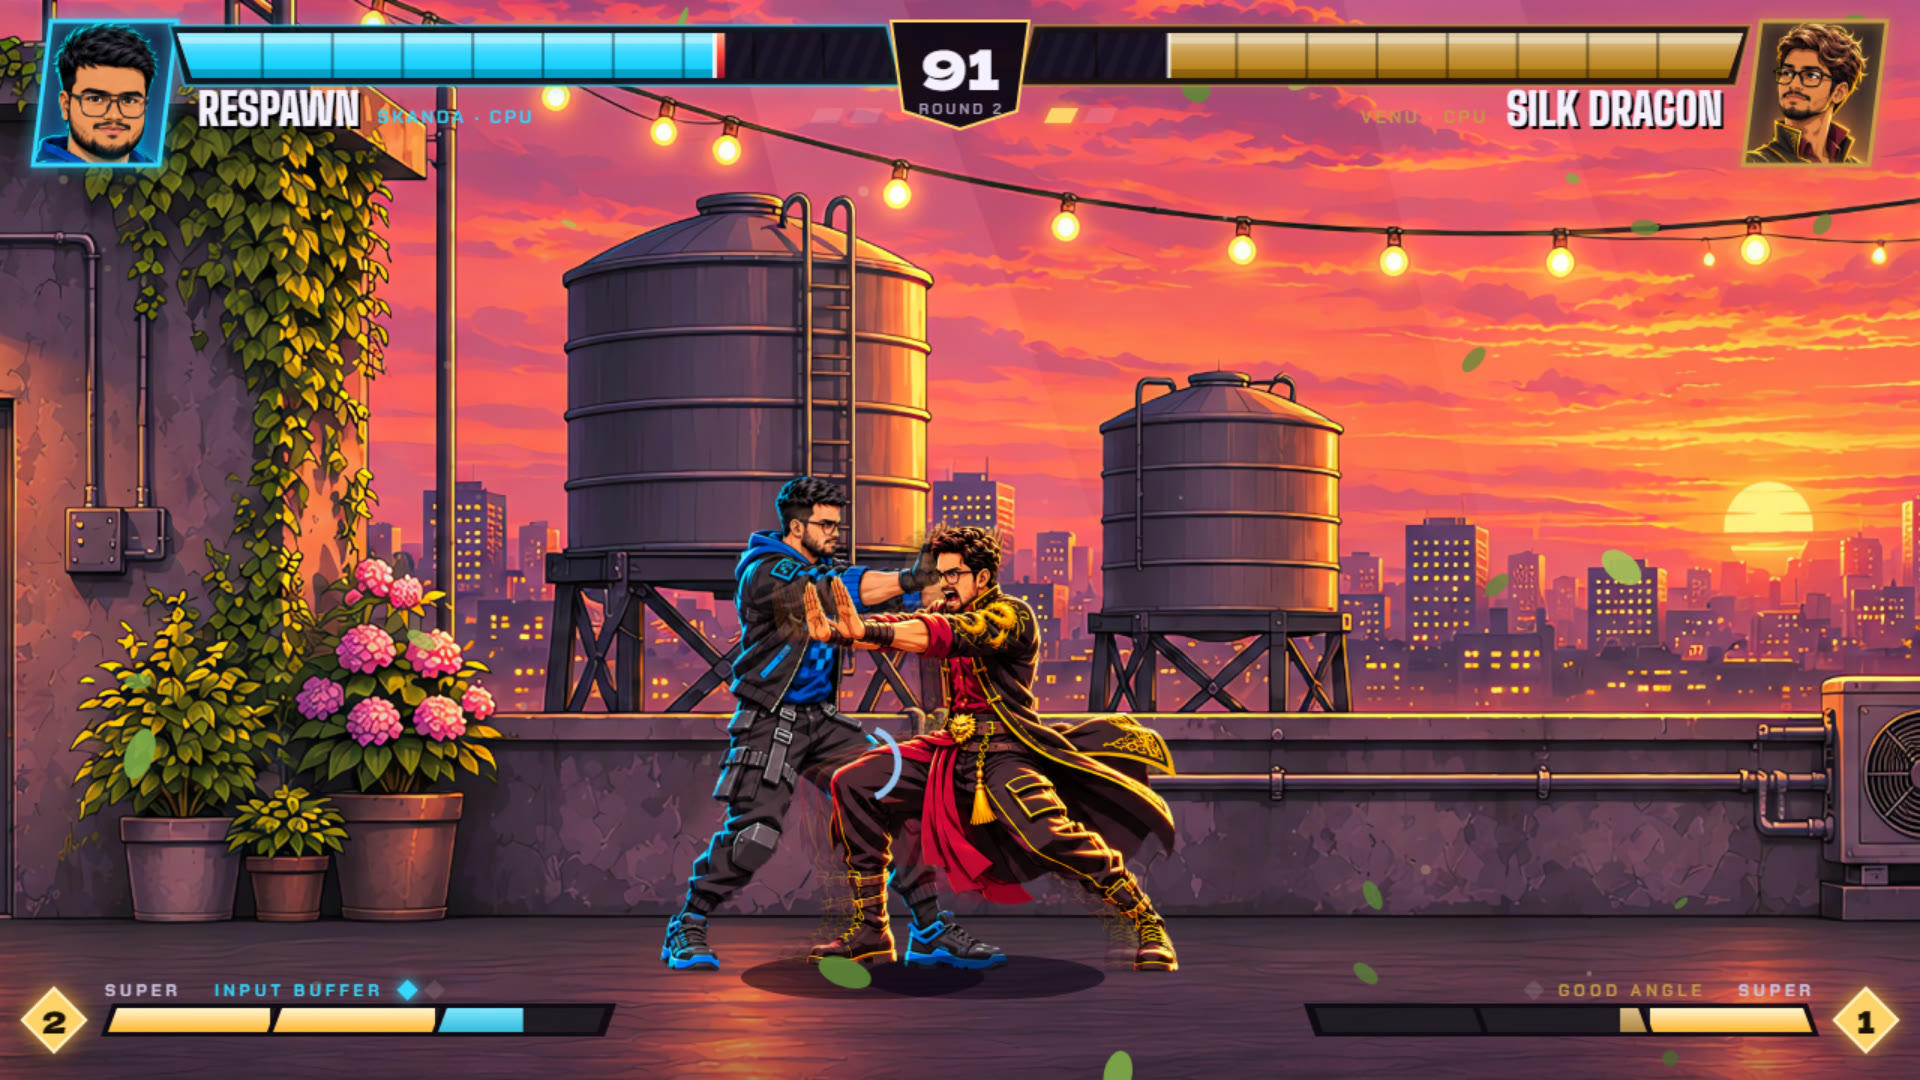
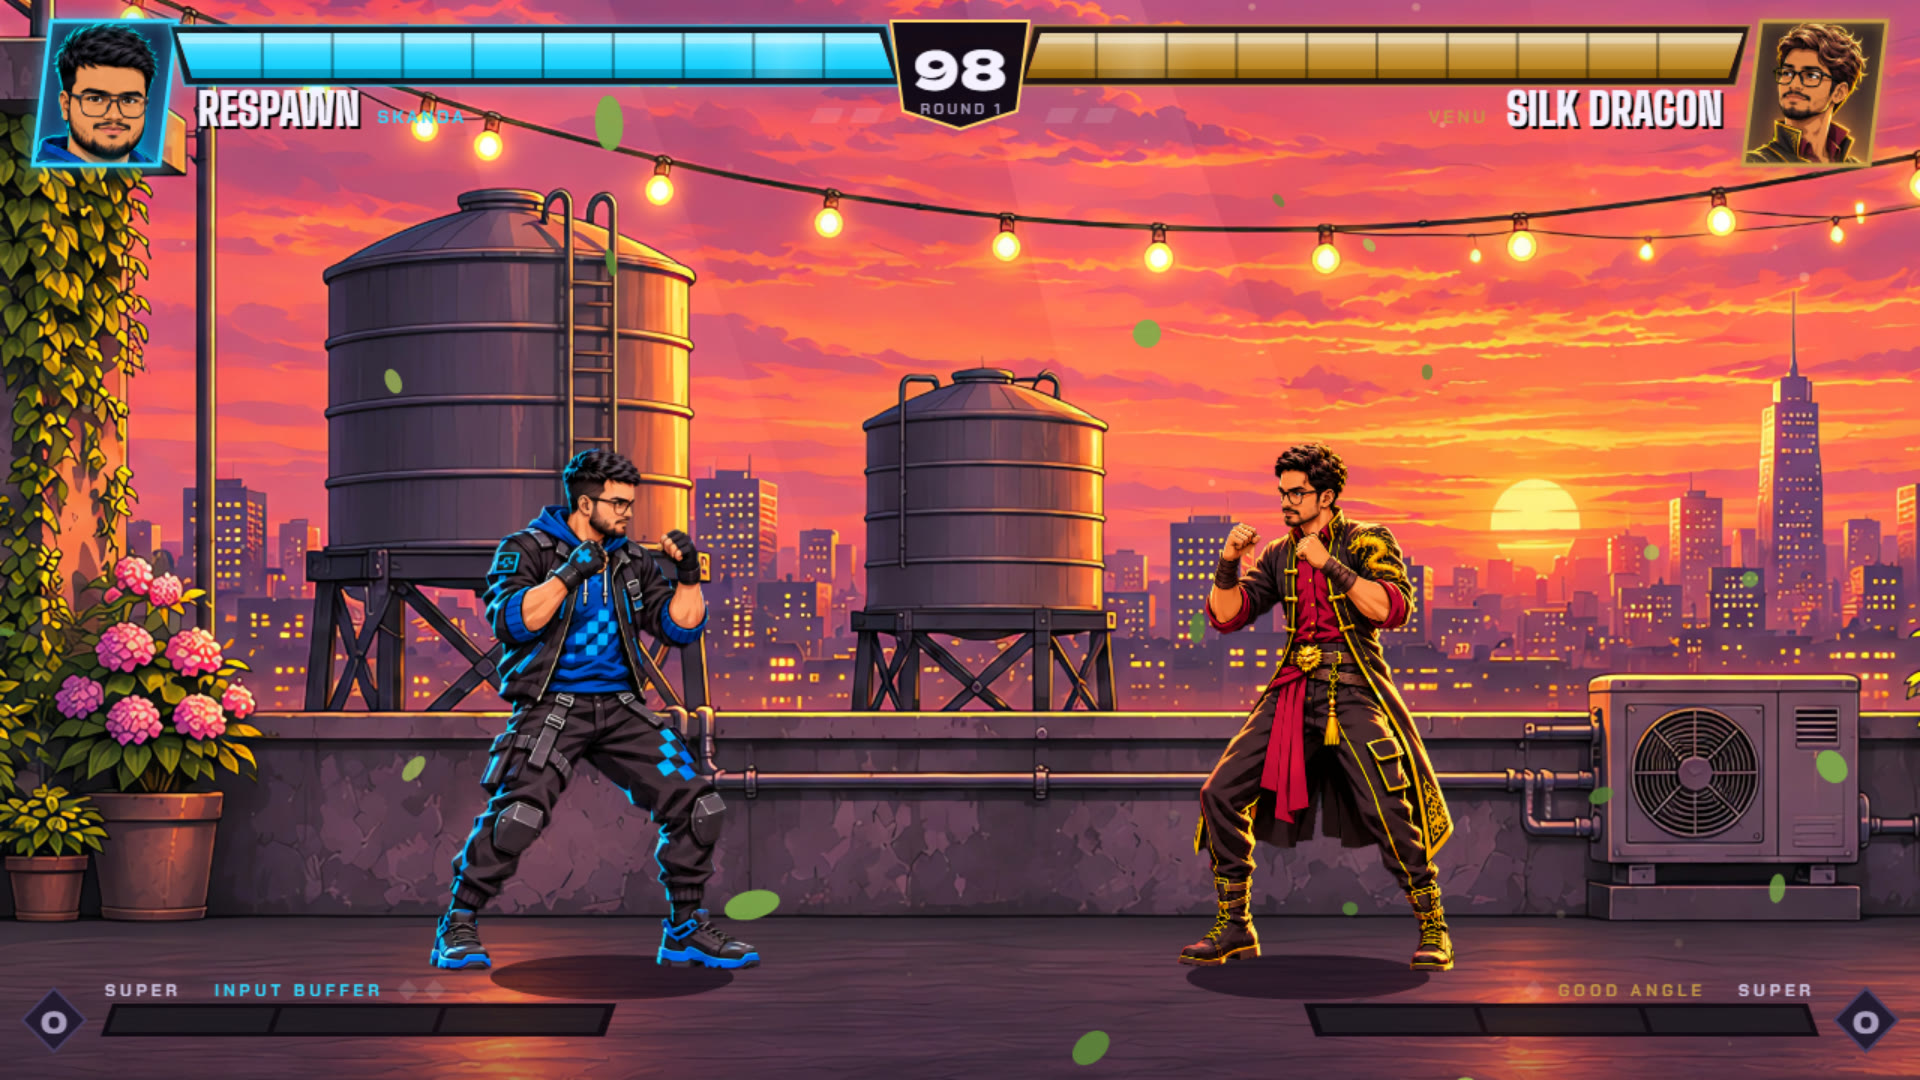
New screenshots: full lineup menu, fighters squaring up

diff --git a/README.md b/README.md
@@ -1,4 +1,4 @@
-# SQUAD WIPE
+# SQUAD WIPE
 
 **7 friends. 1 group chat. Somebody's getting wiped.**
 
@@ -8,25 +8,25 @@ Squad Wipe is a 2D fighting game where every fighter is one of us. Each one has 
   <img src="screenshots/menu.jpg" alt="Squad Wipe main menu with all seven fighters" width="100%">
 </p>
 <p align="center">
-  <img src="screenshots/fight.jpg" alt="RESPAWN and SILK DRAGON trading hits on the Golden Hour rooftop" width="100%">
+  <img src="screenshots/fight.jpg" alt="RESPAWN and SILK DRAGON squaring up on the Golden Hour rooftop" width="100%">
 </p>
 
-## ⬇ Download
+## â¬‡ï¸ Download
 
 **[Get the latest version here](https://github.com/skandasandy24/SQUAD-WIPE-GAME/releases/latest)**. Download `SquadWipe-Setup-x.x.x.exe` from *Assets*.
 
-1. Run the installer. If Windows says **"Windows protected your PC"**, click **More info → Run anyway**. That's only because the game isn't code-signed.
+1. Run the installer. If Windows says **"Windows protected your PC"**, click **More info â†’ Run anyway**. That's only because the game isn't code-signed.
 2. Choose where to install, finish, and open **Squad Wipe** from the desktop or Start menu.
 
-Windows 10/11 · about 300 MB · plays offline (it only goes online to check for updates).
+Windows 10/11 Â· about 300 MB Â· plays offline (it only goes online to check for updates).
 
-## 🔄 Updates
+## ðŸ”„ Updates
 
 You never need to download it again. When a new version is out, the game downloads it in the background and shows **UPDATE READY**:
 - click **RESTART NOW** (or press **F8**, or hold **Select + Start** on a controller), or
 - just keep playing: it installs when you close the game.
 
-## 🥊 The squad
+## ðŸ¥Š The squad
 
 | Fighter | Who | Style | Ultimate |
 |---|---|---|---|
@@ -40,25 +40,25 @@ You never need to download it again. When a new version is out, the game downloa
 
 Every fighter has 5 special moves, a super, an ultimate with its own cinematic, and a home stage.
 
-## 🎮 Modes
+## ðŸŽ® Modes
 
 - **Arcade**: beat the other six in a row. Each fight is harder than the last.
 - **VS CPU**: Easy, Normal or Hard.
 - **VS Friend**: two players on one PC, with a running head-to-head record.
 - **Training**: dummy settings, hitbox view, input display and frame advantage.
 
-## 🕹 Controls
+## ðŸ•¹ï¸ Controls
 
 - **Controllers: fully supported.** Plug in up to two (Xbox, PlayStation or any standard pad). They work in every menu, and pads **rumble** on hits, blocks, throws and K.O.s.
 - **Keyboard:** both players can share one keyboard. Player 2 doesn't need a numpad.
 - Three control styles: **MK** (front/back punch and kick), **Simple** (easy specials) and **Pro**.
-- **F11** fullscreen · **M** mute · full move lists in the game under *How to play* and in the pause menu.
+- **F11** fullscreen Â· **M** mute Â· full move lists in the game under *How to play* and in the pause menu.
 
 | Controller | MK style |
 |---|---|
 | D-pad / left stick | Move |
-| X · Y | Front punch · Back punch |
-| A · B | Front kick · Back kick |
+| X Â· Y | Front punch Â· Back punch |
+| A Â· B | Front kick Â· Back kick |
 | RB / RT | Block |
 | LB / LT | Super / Ultimate |
 | L3 / R3 | Throw |
@@ -66,6 +66,6 @@ Every fighter has 5 special moves, a super, an ultimate with its own cinematic, 
 
 *(Xbox button names. On PlayStation: X = Square, Y = Triangle, A = Cross, B = Circle.)*
 
-## ✨ Also in the game
+## âœ¨ Also in the game
 
-Throw escapes · combo counter · PERFECT rounds · intro and victory lines · rivalry lines on the versus screen · announcer · mirror-match markers.
+Throw escapes Â· combo counter Â· PERFECT rounds Â· intro and victory lines Â· rivalry lines on the versus screen Â· announcer Â· mirror-match markers.
